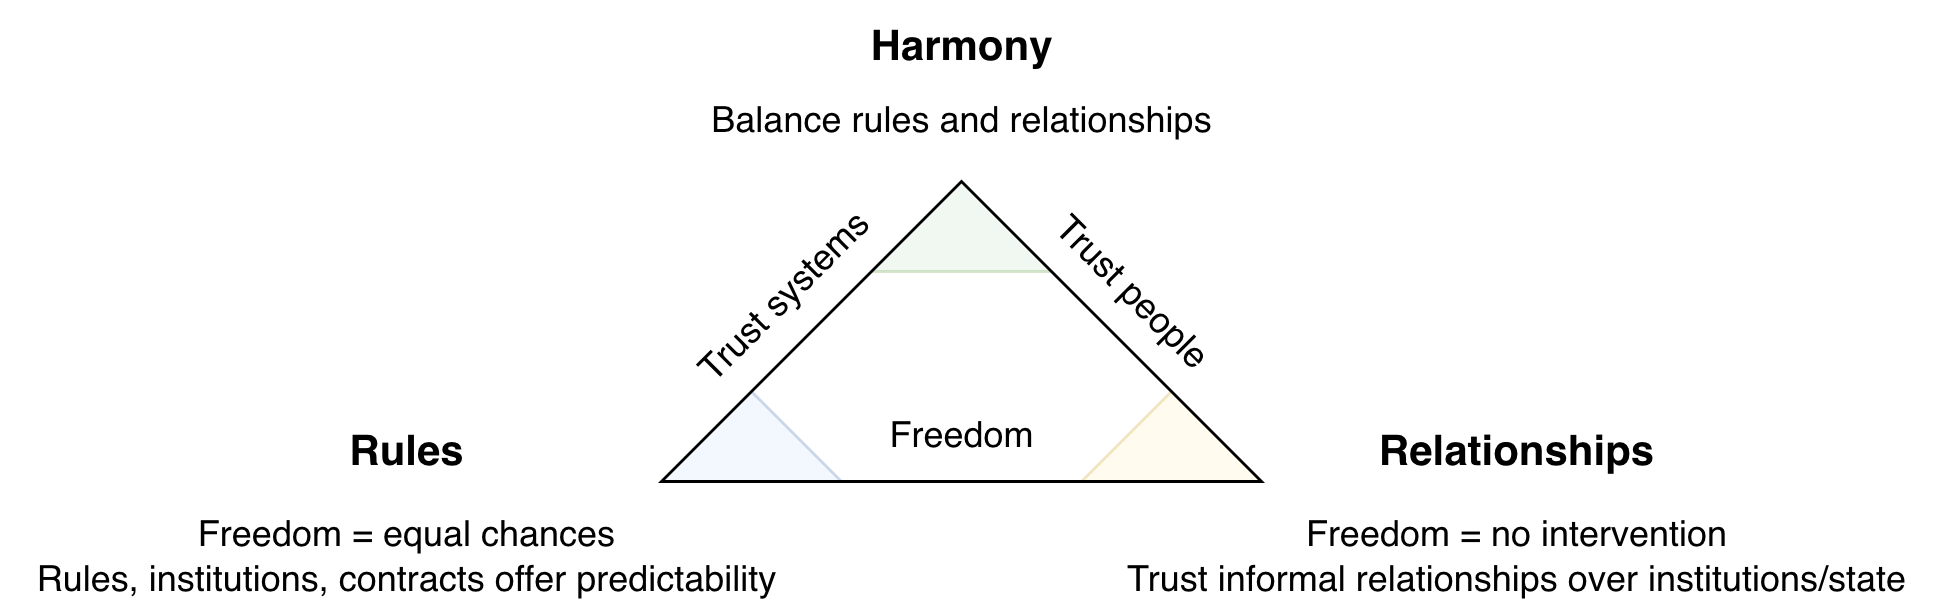
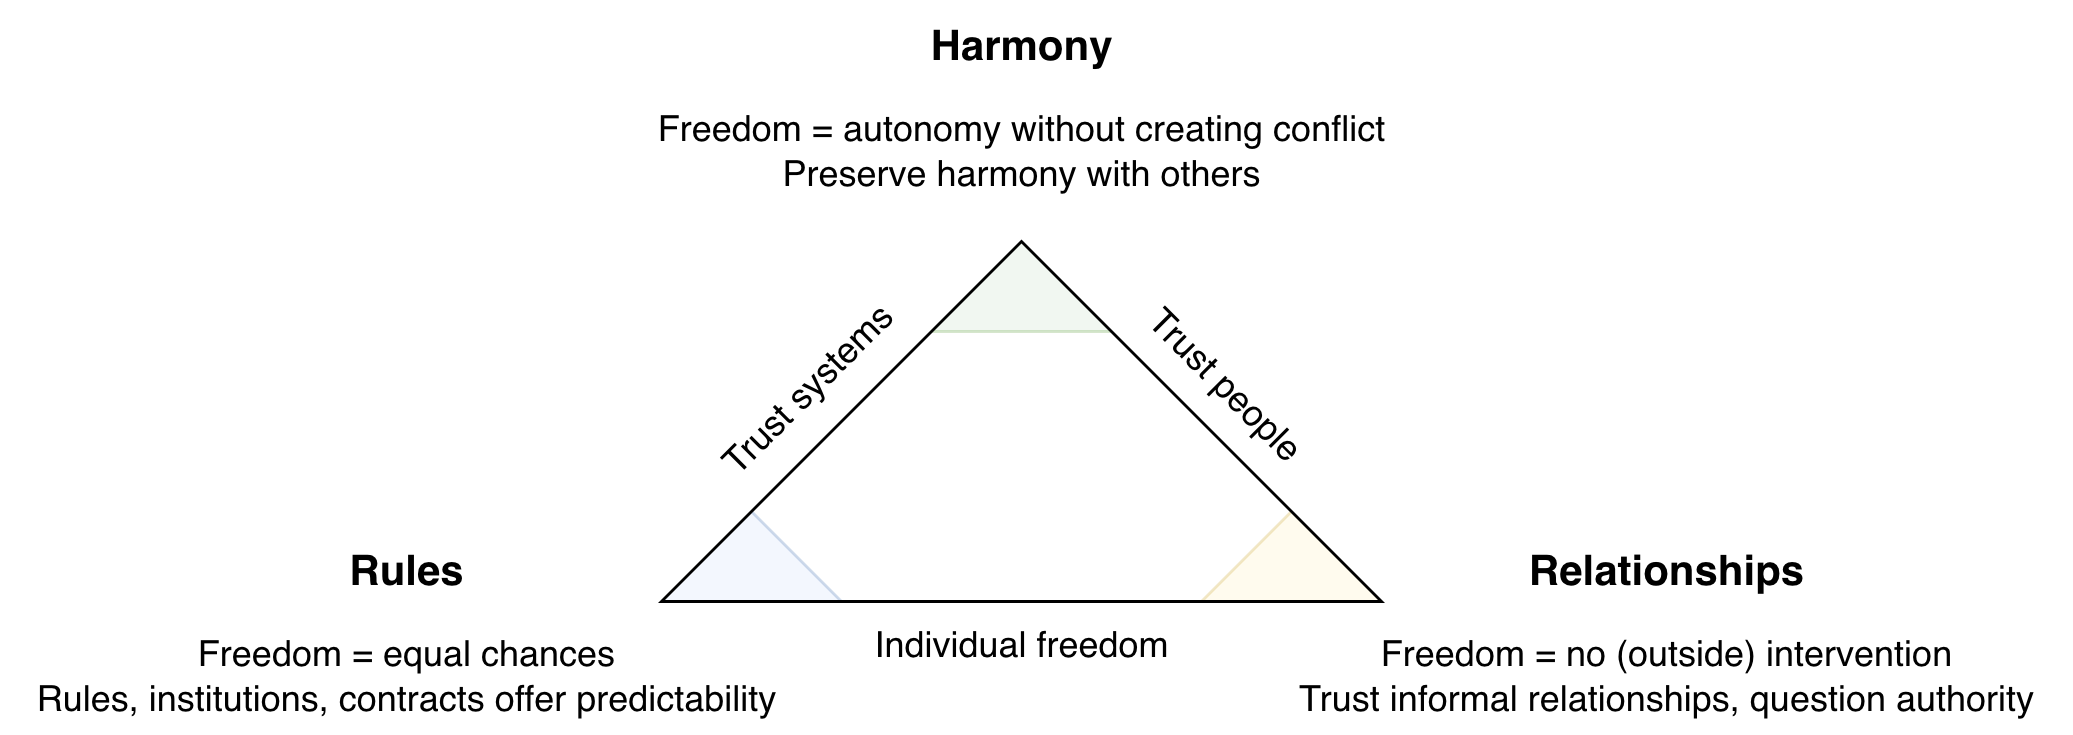
add ideology triangle

diff --git a/psychology/ideology-triangle.md b/psychology/ideology-triangle.md
@@ -1,0 +1,90 @@
+# Implicit Ideology
+
+This document presents a basic model for ideologies (beliefs) that are embedded in society. These include values, beliefs, behaviours and other patterns. The model is comparative and does not favour any specific direction. It is inspired by the Lewis model.
+
+Like all models, this model is wrong. It resembles specific societies in specific eras and fails to cover the majority of societies (present and historical). Instead of attempting to capture the complexity of multicultural societies, it attempts to explain the different directions societies have taken.
+
+[toc]
+
+## Freedom Triangle
+
+In the **rules**-first model, freedom means equal chance and quality treatment. This is guaranteed by rules, institutions and contracts. Freedom from abusive individuals. Absense of rules would be chaotic.
+
+In the **relationship**-first model, freedom means an absense of state intervention. The freedom to negotiate on your own. The freedom to bend rules.  A deep rejection of authority. Human warmth over cold procedure. A rule-based society would feel suffocating.
+
+In the **harmony**-first model, freedom means an absense of conflict. To have autonomy after trust is established. See [choreography](../alignment/orchestration-choreography.md).
+
+<img src="../img/rules-relationships-harmony.png" alt="individualism-patronage-freedom" style="width:51em;" />
+
+## Analogy
+
+The triangle maps to a classification of society: procedural societies, relational societies and collectivist societies. Let's first explore these by an analogy: a factory for a cold procedural society, a bazaar for a relational society and a (Buddhist) temple for a collectivist society.
+
+<img src="../img/factory-bazaar-temple.jpg" alt="factory-bazaar-temple" style="width:42em;" />
+
+## Ideology Triangle
+
+The classification of societies shows the implicit ideology. In contrast to traditional ideologies, these implicit ideologies are invisible to the members of a society. The table below presents an overview, followed by a brief description of each class.
+
+|                    | ❄ Procedural Society                                         | 🔥 Relational Society                                         | ☯ Collectivist Society                                       |
+| ------------------ | ------------------------------------------------------------ | ------------------------------------------------------------ | ------------------------------------------------------------ |
+| **Core**           | Rules, roles, schedules, contracts, outcomes                 | Authentic informal relationships, reputation, flexibility    | Attunement, respect. Preserve harmony                        |
+| **Driver**         | Performance (becoming). Protestantism, rationalism, industrialization, capitalism | Distrust "broken" institutions. Honor cultures.              | Buddhism, Confucianism. Loose power structures (choreography) |
+| **Identity**       | Split identity. Different roles in different environments    | Interdependence. Shared personal, social, professional lives. | *Anatman* (non-self)                                         |
+| **Morality**       | Principled. Deontological morality. Impersonal rules.        | Particularism. High context. Dignity, forgiveness.           | Moral duty, minimize friction. Long-term stability.          |
+| **Accountability** | Institutions judge outcomes. Business = business             | Rules are negotiable. Personal relationships before business. | Balance                                                      |
+| **Satisfaction**   | Work provides significant meaning                            | *Carpe diem. Dolce far niente*                               | Peaceful contribution. Social harmony. *Wa*                  |
+| **Communication**  | Direct, factual, often professional                          | Expressive sincerity                                         | Listen first, calibrated answers. Respect                    |
+| **Origin**         | UK, Germany, Benelux                                         | Southern Europe                                              | East Asia                                                    |
+
+
+
+❄ **Procedural Society**
+
+1. The **core** characteristics are the heavy usage of rules and roles. Predictability is ensured through schedules and contracts. Society is driven by performance and achievement.
+2. **Identity** is split into personal, social and work lives. They change their attitude based on the current role. 
+3. This enables a dual **morality**. Deontology is favoured in general, while work roles allow consequentialist judgement (outcome-based) and diplomatic communication. Business = business. Ratio is highly valued.
+4. Moreover, a **good life** may revolve around work. Work may provide significant meaning.
+5. The results is a heavy regulated, systems-oriented culture. Full of procedures, laws and organization.
+
+The systematic nature, mild emotional expression and the consequentialist judgement can seem cold and apathetic to other cultures.
+
+
+
+🔥 **Relational Society**
+
+1. The **core** characteristics are the central role of informal relationships and flexibility in everything. Sincerity and reputation are cherished. This is driven by an aversion to institutions, which can be corrupt, biassed, impersonal or unreliable. Relationships and reputation is valued instead. Relationships compensate for institutional gaps.
+2. **Identity** is interdependent. Shared personal, social and professional lives. Personal relationships intertwine with business business.
+3. **Morality** is highly contextual (particularism). Rules are negotiable. Some rules should be bend. Relationships come before business.
+4. A **good life** consists of shared experience and leisure. Work is merely a tool. *Carpe diem. Dolce far niente.*
+
+
+
+☯ **Collectivist Society**
+
+1. The **core** characteristics are attunement and respect. Society runs on a type of choreography. Implicit expectations and self-discipline, rather than tight control. It is build upon foundations of Buddhist and Confuscianist teachings.
+2. **Identity** is rooted in community. The ego is far less important than in individualist societies.
+3. **Morality** and ethics are balanced deontology (duty), virtue (self-discipline, sincerity) and consequences (harmony, long-term stability). Duty depends on relationships and hierarchy. Moral duty.
+4. A **good life** consists of living virtuously, in peace. The "reward" is social harmony.
+
+
+
+### Communism
+
+Historically, communism has been most compatible with collectivist societies. The socialist nature and respect for institutions provides a basis for communist policies.
+
+Communism fits less well with procedural societies. The presence of well working institutions lowers the need of communist solutions. Procedural societies tend to be more individualistic as well, with less support for socialist policies.
+
+Relational societies tend to have stronger support for communist ideas. Yet, a distrust of institutions and cold procedures creates complications. Historically it clashed with anarchism in e.g. Spain.
+
+
+
+## Desires Model
+
+See also [desires](desires.md).
+
+<img src="../img/pyramid-desire.png" alt="desire" style="width:51em;" />
+
+## References
+
+- R. Lewis. *When Cultures Collide: Leading Across Cultures*
